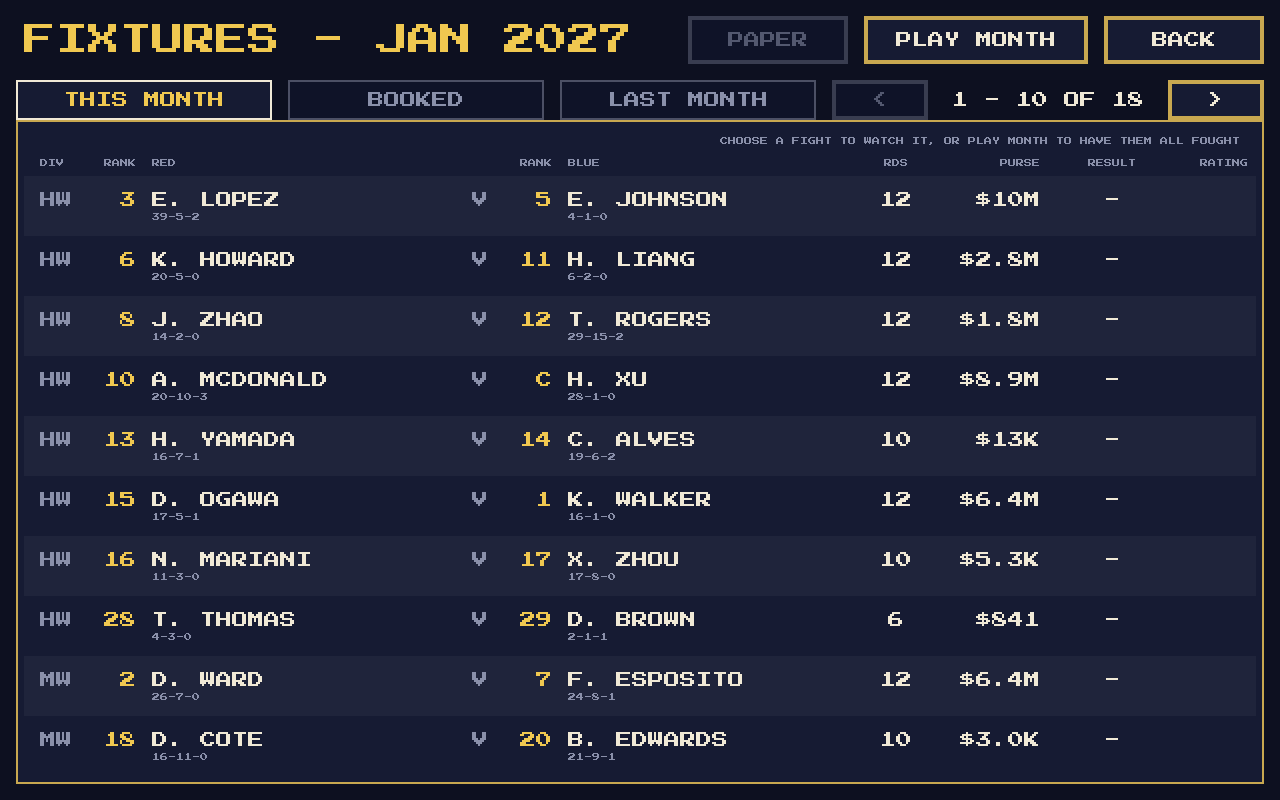
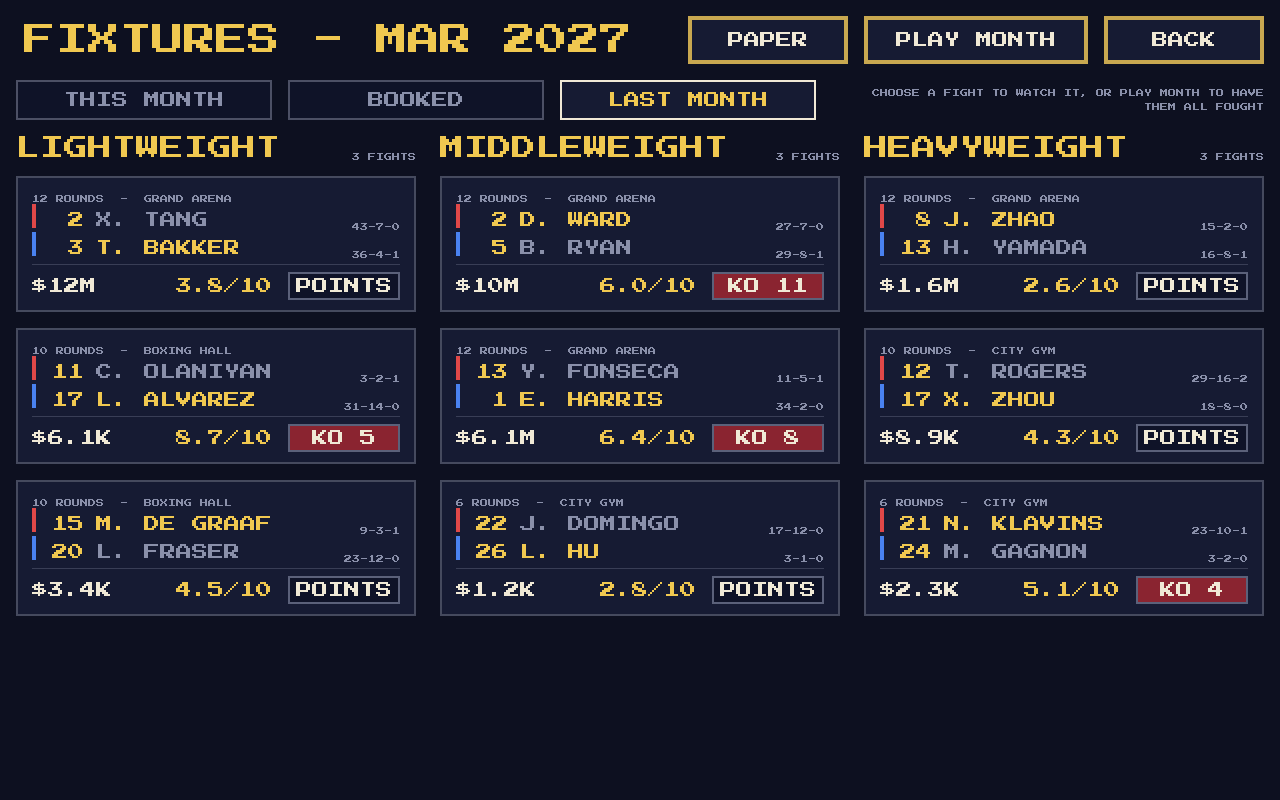
0.1.55: The Fixtures screen as a fight-night board of cards
Claude-Session: https://claude.ai/code/session_01PF6KKrB4uHprcLjw7ppdzy

diff --git a/README.md b/README.md
@@ -436,9 +436,12 @@ The season starts in January 2027 and runs a month at a time:
   least once a year. If a champion retires the title is vacant, and the
   two best contenders fight for it as soon as both are free (until then
   neither takes another fight).
-* **Fight night** is the end of the month. The **Fixtures** screen lists
-  the month's fights (division, each man's ranking and record, rounds and
-  purse, with the belt for a title fight). Choose one to **watch** it in
+* **Fight night** is the end of the month. The **Fixtures** screen is a
+  fight-night board: a column for each division, each fight a card (the
+  rounds and venue, each corner's ranking, name and record, the purse;
+  once fought the winner in gold, the excitement rating and the result as
+  a badge, red for a stoppage). Title fights and the player's own fight
+  have a gold border, with the belt or YOUR FIGHT. Choose one to **watch** it in
   the ring, or **PLAY MONTH** to have the rest fought. Every fight is a
   full FightSim fight, exactly as a watched one runs, simulated on a
   worker thread so the screen keeps moving as each result comes in. BOOKED

diff --git a/CHANGELOG.md b/CHANGELOG.md
@@ -4,6 +4,20 @@ Every build bumps the last number of the version while the game is a
 prototype. The version lives in `project.godot` (`application/config/version`)
 and is shown on the main menu.
 
+## 0.1.55
+
+* The Fixtures screen is now a fight-night board: a column for each
+  division (lightest first, with how many fights it has), each fight a
+  card (FightCard) instead of a row of a table. A card has the rounds and
+  venue (and the month, on BOOKED) along the top, each corner on its own
+  line with a red or blue mark, his ranking, name and record, and the
+  purse along the bottom; once fought, the winner is gold and the loser
+  dim, with the excitement rating ("8.7/10") and the result as a badge -
+  red for a knockout or stoppage. Title fights and the player's fight have
+  a gold border (the belt, or YOUR FIGHT), and his fight comes first in its
+  column. With 9 - 10 fights a month everything is on one screen (no more
+  pages); BOOKED scrolls down each column.
+
 ## 0.1.54
 
 * Fewer fights a month: each division's fight night has room for three
